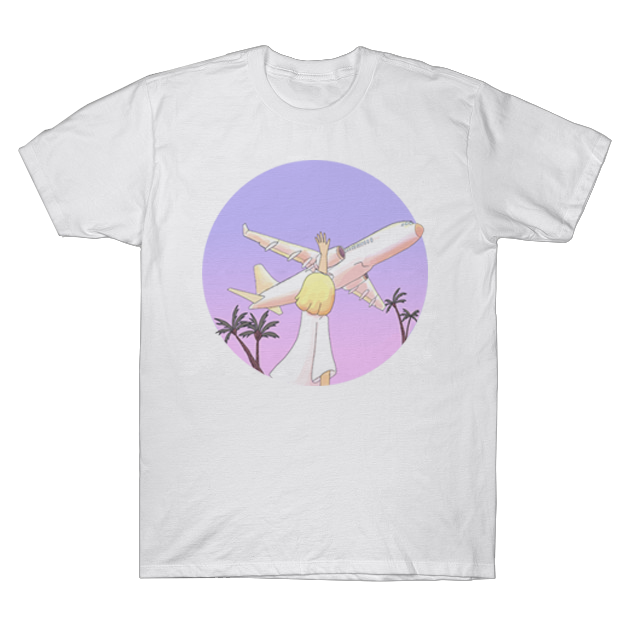
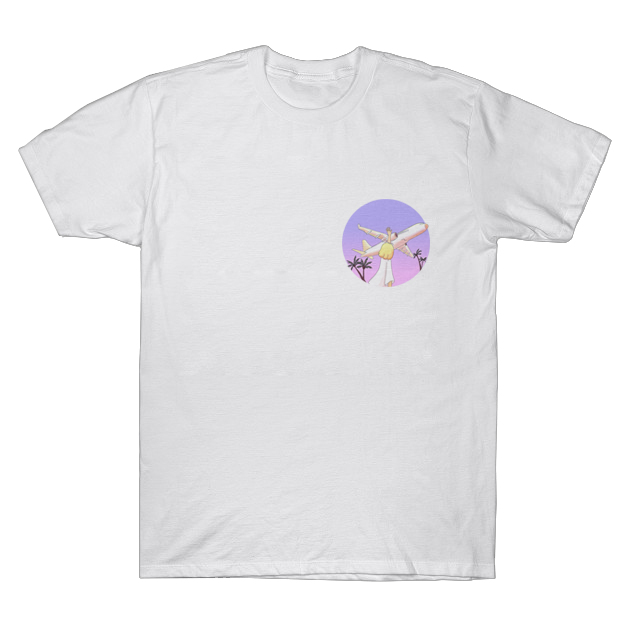
added pictures of the shirts

Changed region(s): [[0.3016, 0.2413, 0.6937, 0.6333]]

diff --git a/style.css b/style.css
@@ -842,8 +842,12 @@ a:hover::after{
     display: inline-block;
     position: absolute;
     transition: 0.5s ease-out;
+    background-image: url('shirt_plane.png');
+    background-repeat: no-repeat;
+    background-size: contain;
 }
 .shirts:last-child {
+    background-image: url('shirt_ground.png');
     left: 450px;
 }
 .shirts img{
@@ -1344,6 +1348,10 @@ input:focus, select:focus, button:focus{
         bottom: -145px;
     }
 }
+.content:first-child span {
+    text-shadow: 1px 1px 0 var(--color1), -1px -1px 0 var(--color1), 1px -1px 0 var(--color1), -1px 1px 0 var(--color1);
+}
+
 @media only screen and (max-width: 700px) {
     .header {
         position: fixed;
@@ -1503,7 +1511,7 @@ input:focus, select:focus, button:focus{
         left: 0;
     }
     #shirt_1 {
-        background-image: url('t_shirt_front.png');
+        background-image: url('shirt_plane.png');
         z-index: 2;
         top: 35px;
         left: -40px;
@@ -1517,7 +1525,7 @@ input:focus, select:focus, button:focus{
             opacity: 1;}
     }
     #shirt_2 {
-        background-image: url('t_shirt_front.png');
+        background-image: url('shirt_ground.png');
         z-index: 1;
         left: 50px;
         margin-left: 0;
@@ -2204,6 +2212,7 @@ input:focus, select:focus, button:focus{
         background-size: contain;
     }
     .shirts:last-child {
+        background-image: url('shirt_ground.png');
         left: 100%;
     }
     .shirts img{

diff --git a/individual.html b/individual.html
@@ -25,9 +25,9 @@
                 
                         <!-- Shirt pictures-->
                         <div class="shirt_block_container">
-                            <div class="shirts"> <img src="shirt_plane.png">
+                            <div class="shirts">
                             </div>
-                            <div class="shirts"> <img src="shirt_ground.png">
+                            <div class="shirts">
                             </div>
                         </div>
                         <!-- Shirt infos-->
